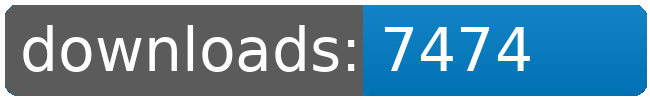
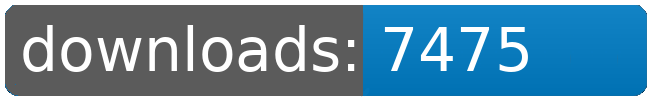
dl log written

Changed region(s): [[0.7692, 0.27, 0.8308, 0.72]]

diff --git a/README.md b/README.md
@@ -4,113 +4,113 @@
 <table>
 	<tr>
 		<td></td>
-		<td>2026-07-16</td>
 		<td>2026-07-17</td>
 		<td>2026-07-18</td>
 		<td>2026-07-19</td>
 		<td>2026-07-20</td>
 		<td>2026-07-21</td>
 		<td>2026-07-22</td>
+		<td>2026-07-23</td>
 		<td>today +</td>
 	</tr>
 	<tr>
 		<td>Bunsen.Burner</td>
-		<td>7609</td>
 		<td>7624</td>
 		<td>7639</td>
 		<td>7654</td>
 		<td>7667</td>
 		<td>7681</td>
 		<td>7695</td>
-		<td>+ 14</td>
+		<td>7695</td>
+		<td></td>
 	</tr>
 	<tr>
 		<td>Factory.Outlets</td>
-		<td>6685</td>
 		<td>6700</td>
 		<td>6718</td>
 		<td>6735</td>
 		<td>6748</td>
 		<td>6763</td>
 		<td>6777</td>
-		<td>+ 14</td>
+		<td>6777</td>
+		<td></td>
 	</tr>
 	<tr>
 		<td>Fundamental.Outfit.Expansion</td>
-		<td>7975</td>
 		<td>7995</td>
 		<td>8012</td>
 		<td>8033</td>
 		<td>8047</td>
 		<td>8063</td>
 		<td>8076</td>
-		<td>+ 13</td>
+		<td>8076</td>
+		<td></td>
 	</tr>
 	<tr>
 		<td>Jaws</td>
-		<td>6524</td>
 		<td>6539</td>
 		<td>6554</td>
 		<td>6569</td>
 		<td>6583</td>
 		<td>6597</td>
 		<td>6613</td>
-		<td>+ 16</td>
+		<td>6613</td>
+		<td></td>
 	</tr>
 	<tr>
 		<td>Korunak.Defense.Drones</td>
-		<td>6743</td>
 		<td>6759</td>
 		<td>6775</td>
 		<td>6791</td>
 		<td>6804</td>
 		<td>6818</td>
 		<td>6833</td>
-		<td>+ 15</td>
+		<td>6833</td>
+		<td></td>
 	</tr>
 	<tr>
 		<td>Louise.Conglomerate.Shipyards</td>
-		<td>7375</td>
 		<td>7396</td>
 		<td>7412</td>
 		<td>7430</td>
 		<td>7446</td>
 		<td>7460</td>
 		<td>7474</td>
-		<td>+ 14</td>
+		<td>7475</td>
+		<td>+ 1</td>
 	</tr>
 	<tr>
 		<td>Sheragi.Rebirth.Redux</td>
-		<td>57</td>
 		<td>58</td>
 		<td>60</td>
 		<td>61</td>
 		<td>62</td>
 		<td>63</td>
 		<td>63</td>
+		<td>63</td>
 		<td></td>
 	</tr>
 	<tr>
 		<td>Solar.Sails</td>
-		<td>6648</td>
 		<td>6664</td>
 		<td>6679</td>
 		<td>6696</td>
 		<td>6709</td>
 		<td>6724</td>
 		<td>6738</td>
-		<td>+ 14</td>
+		<td>6738</td>
+		<td></td>
 	</tr>
 	<tr>
 		<td>Zone.of.Control</td>
-		<td>6467</td>
 		<td>6483</td>
 		<td>6499</td>
 		<td>6517</td>
 		<td>6531</td>
 		<td>6545</td>
 		<td>6559</td>
-		<td>+ 14</td>
+		<td>6559</td>
+		<td></td>
 	</tr>
 	<tr>
 		<td></td>
@@ -120,8 +120,8 @@
 		<td></td>
 		<td></td>
 		<td></td>
-		<td>56828</td>
-		<td>114</td>
+		<td>56829</td>
+		<td>1</td>
 	</tr>
 </table>
 </sub></sup>
@@ -129,112 +129,112 @@
 <table>
 	<tr>
 		<td></td>
-		<td>2026-07-16</td>
 		<td>2026-07-17</td>
 		<td>2026-07-18</td>
 		<td>2026-07-19</td>
 		<td>2026-07-20</td>
 		<td>2026-07-21</td>
 		<td>2026-07-22</td>
+		<td>2026-07-23</td>
 		<td>today +</td>
 	</tr>
 	<tr>
 		<td>Fundamental.Outfit.Expansion</td>
-		<td>7975</td>
 		<td>7995</td>
 		<td>8012</td>
 		<td>8033</td>
 		<td>8047</td>
 		<td>8063</td>
 		<td>8076</td>
-		<td>+ 13</td>
+		<td>8076</td>
+		<td></td>
 	</tr>
 	<tr>
 		<td>Bunsen.Burner</td>
-		<td>7609</td>
 		<td>7624</td>
 		<td>7639</td>
 		<td>7654</td>
 		<td>7667</td>
 		<td>7681</td>
 		<td>7695</td>
-		<td>+ 14</td>
+		<td>7695</td>
+		<td></td>
 	</tr>
 	<tr>
 		<td>Louise.Conglomerate.Shipyards</td>
-		<td>7375</td>
 		<td>7396</td>
 		<td>7412</td>
 		<td>7430</td>
 		<td>7446</td>
 		<td>7460</td>
 		<td>7474</td>
-		<td>+ 14</td>
+		<td>7475</td>
+		<td>+ 1</td>
 	</tr>
 	<tr>
 		<td>Korunak.Defense.Drones</td>
-		<td>6743</td>
 		<td>6759</td>
 		<td>6775</td>
 		<td>6791</td>
 		<td>6804</td>
 		<td>6818</td>
 		<td>6833</td>
-		<td>+ 15</td>
+		<td>6833</td>
+		<td></td>
 	</tr>
 	<tr>
 		<td>Factory.Outlets</td>
-		<td>6685</td>
 		<td>6700</td>
 		<td>6718</td>
 		<td>6735</td>
 		<td>6748</td>
 		<td>6763</td>
 		<td>6777</td>
-		<td>+ 14</td>
+		<td>6777</td>
+		<td></td>
 	</tr>
 	<tr>
 		<td>Solar.Sails</td>
-		<td>6648</td>
 		<td>6664</td>
 		<td>6679</td>
 		<td>6696</td>
 		<td>6709</td>
 		<td>6724</td>
 		<td>6738</td>
-		<td>+ 14</td>
+		<td>6738</td>
+		<td></td>
 	</tr>
 	<tr>
 		<td>Jaws</td>
-		<td>6524</td>
 		<td>6539</td>
 		<td>6554</td>
 		<td>6569</td>
 		<td>6583</td>
 		<td>6597</td>
 		<td>6613</td>
-		<td>+ 16</td>
+		<td>6613</td>
+		<td></td>
 	</tr>
 	<tr>
 		<td>Zone.of.Control</td>
-		<td>6467</td>
 		<td>6483</td>
 		<td>6499</td>
 		<td>6517</td>
 		<td>6531</td>
 		<td>6545</td>
 		<td>6559</td>
-		<td>+ 14</td>
+		<td>6559</td>
+		<td></td>
 	</tr>
 	<tr>
 		<td>Sheragi.Rebirth.Redux</td>
-		<td>57</td>
 		<td>58</td>
 		<td>60</td>
 		<td>61</td>
 		<td>62</td>
 		<td>63</td>
 		<td>63</td>
+		<td>63</td>
 		<td></td>
 	</tr>
 	<tr>
@@ -245,8 +245,8 @@
 		<td></td>
 		<td></td>
 		<td></td>
-		<td>56828</td>
-		<td>114</td>
+		<td>56829</td>
+		<td>1</td>
 	</tr>
 </table>
 </sub></sup>
@@ -313,9 +313,9 @@
 		<td></td>
 	</tr>
 	<tr>
-		<td>282</td>
-		<td>21.78</td>
-		<td>6.65</td>
+		<td>283</td>
+		<td>21.70</td>
+		<td>6.63</td>
 		<td></td>
 		<td></td>
 	</tr>
